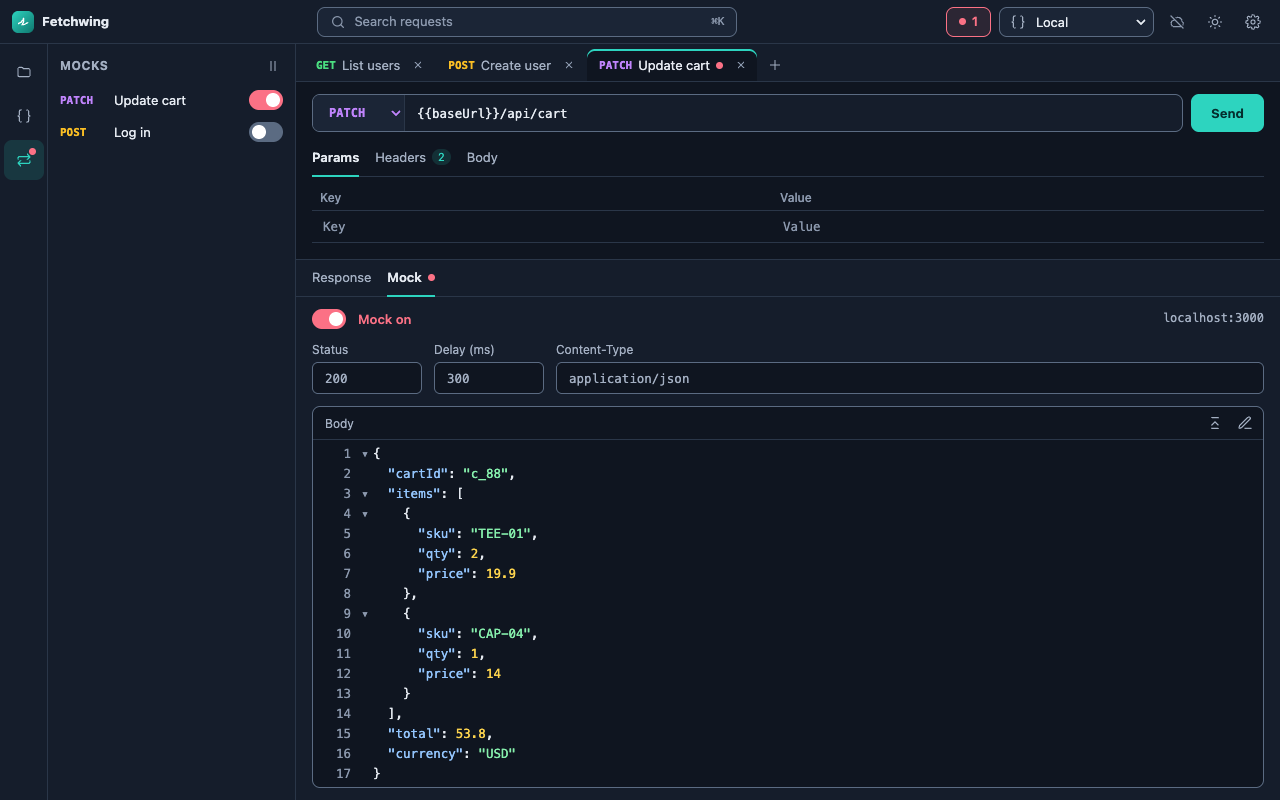
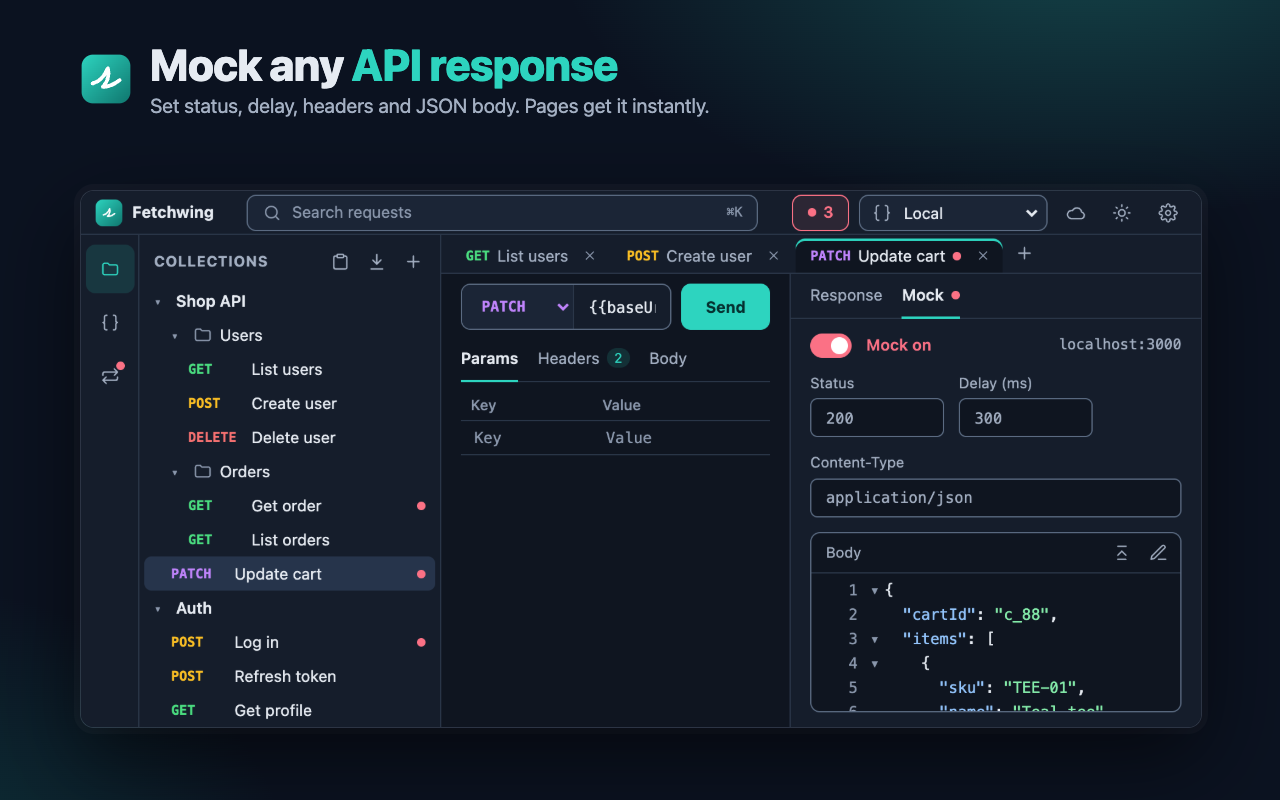
chore: sharpen the Store listing for search and use framed screenshots
Name and descriptions carry the terms people search for (REST API client,
HTTP, mock API). Five framed 1280x800 screenshots cover cURL paste, search,
mocks, mocks with DevTools closed and Drive sync; new promo tile.

diff --git a/docs/store/src/promo-small.html b/docs/store/src/promo-small.html
@@ -2,11 +2,27 @@
 <meta charset="utf-8">
 <style>
   html, body { margin: 0; width: 440px; height: 280px; overflow: hidden; }
-  body { background: radial-gradient(circle at 20% 20%, #15303a, #0f1520 70%); color: #e6ebf2; font-family: Inter, -apple-system, BlinkMacSystemFont, "Segoe UI", Roboto, sans-serif; display: flex; align-items: center; gap: 24px; padding: 0 40px; box-sizing: border-box; }
-  img { width: 112px; height: 112px; }
-  h1 { margin: 0; font-size: 40px; letter-spacing: -.5px; }
-  p { margin: 6px 0 0; color: #a3afc2; font-size: 17px; line-height: 1.35; }
-  b { color: #2dd4bf; font-weight: 600; }
+  body { position: relative; background: radial-gradient(320px 220px at 100% 0%, rgba(45,212,191,.32), transparent 65%), radial-gradient(260px 200px at 0% 100%, rgba(15,118,110,.4), transparent 65%), #0b1220; color: #e6ebf2; font-family: Inter, -apple-system, BlinkMacSystemFont, "Segoe UI", Roboto, sans-serif; }
+  .brand { position: absolute; left: 30px; top: 36px; display: flex; align-items: center; gap: 12px; }
+  .brand img { width: 46px; height: 46px; }
+  h1 { margin: 0; font-size: 40px; font-weight: 800; letter-spacing: -1px; }
+  p { position: absolute; left: 30px; top: 98px; margin: 0; font-size: 19px; font-weight: 600; line-height: 1.3; color: #cbd5e1; width: 210px; }
+  p b { color: #2dd4bf; }
+  .ui { position: absolute; right: 14px; bottom: -22px; width: 214px; background: #151d2b; border: 1px solid rgba(163,175,194,.25); border-radius: 12px; box-shadow: 0 18px 40px rgba(0,0,0,.6); padding: 12px 14px; font: 12px/1.6 "JetBrains Mono", ui-monospace, Menlo, monospace; transform: rotate(-4deg); }
+  .row { display: flex; align-items: center; gap: 8px; font: 600 13px Inter, sans-serif; margin-bottom: 8px; }
+  .sw { width: 30px; height: 17px; border-radius: 9px; background: #fb7185; position: relative; }
+  .sw::after { content: ""; position: absolute; right: 2px; top: 2px; width: 13px; height: 13px; border-radius: 50%; background: #fff; }
+  .m { color: #c084fc; font: 700 11px ui-monospace, Menlo, monospace; }
+  .on { color: #fb7185; }
+  .k { color: #93c5fd; } .s { color: #86efac; } .n { color: #fcd34d; }
 </style>
-<img src="../../../assets/icons/icon.svg" alt="">
-<div><h1>Fetchwing</h1><p>Send requests and <b>mock responses</b> right inside DevTools.</p></div>
+<div class="brand"><img src="../../../assets/icons/icon.svg" alt=""><h1>Fetchwing</h1></div>
+<p><b>API client</b> &amp; <b>mocks</b> inside DevTools</p>
+<div class="ui">
+  <div class="row"><span class="m">PATCH</span><span>/api/cart</span><span class="sw" style="margin-left:auto"></span></div>
+  <div class="row on" style="font-size:12px;margin-bottom:4px">Mock on · 200 · 300 ms</div>
+  <div>{</div>
+  <div>&nbsp;&nbsp;<span class="k">"total"</span>: <span class="n">53.8</span>,</div>
+  <div>&nbsp;&nbsp;<span class="k">"currency"</span>: <span class="s">"USD"</span></div>
+  <div>}</div>
+</div>

diff --git a/docs/index.html b/docs/index.html
@@ -4,7 +4,7 @@
 <meta charset="utf-8">
 <meta name="viewport" content="width=device-width, initial-scale=1">
 <title>Fetchwing — API client and mocks in DevTools</title>
-<meta name="description" content="Paste cURL, send requests, organise collections and mock responses for web pages, right inside Chrome DevTools.">
+<meta name="description" content="Paste cURL, send requests, organize collections and mock responses for web pages, right inside Chrome DevTools.">
 <link rel="icon" href="icon-128.png">
 <style>
   body { margin: 0; background: #0f1520; color: #e6ebf2; font: 17px/1.6 -apple-system, BlinkMacSystemFont, "Segoe UI", Roboto, sans-serif; }

diff --git a/docs/PUBLISHING.md b/docs/PUBLISHING.md
@@ -40,7 +40,7 @@ Reload the extension. Open DevTools → **Fetchwing** → cloud button → **Syn
 4. Listing:
    - Description: see "Store listing text" below.
    - Icon: `assets/icons/icon-128.png`.
-   - Screenshots, uploaded in this order: `docs/store/screenshot-1.png` … `screenshot-4.png` (1280×800).
+   - Screenshots, uploaded in this order: `docs/store/screenshot-1.png` … `screenshot-5.png` (1280×800).
    - Small promo tile: `docs/store/promo-small.png` (440×280).
    - Category: Developer Tools. Language: English.
    - Privacy practices tab: paste the single purpose, permission justifications and data disclosure from `docs/COMPLIANCE.md`.
@@ -53,17 +53,17 @@ Repo **Settings → Pages → Deploy from a branch → `main` / `/docs`**. The s
 
 ## Store listing text
 
-Name (`manifest.json` `name`): **Fetchwing**
+Name (`manifest.json` `name`, max 75 characters): **Fetchwing – API Client & Mock Server for DevTools** (49). The brand comes first, then the words people search for. `short_name` stays "Fetchwing", and the DevTools tab is still called Fetchwing.
 
-Short description (`manifest.json` `description`, max 132 characters):
+Short description (`manifest.json` `description`, max 132 characters, 121 used):
 
-> API client in DevTools: paste cURL, send requests, organise collections, and mock responses for web pages.
+> REST API client for DevTools: paste cURL, send HTTP requests, organize collections, and mock API responses on live pages.
 
-Detailed description:
+Detailed description (keep "mock" at 6 mentions or fewer; the spam policy flags repeated keywords):
 
-> Fetchwing is a lightweight API client that lives in Chrome DevTools. Grab a request from the Network tab, send it again, tweak it, and make your web page get the response you want while the real API is unfinished or misbehaving.
+> Fetchwing is a lightweight REST API client that lives in Chrome DevTools, with built-in API mocking. Copy a request as cURL from the Network tab, paste it, send it, tweak it, and make your page get the JSON response you want while the real API is unfinished or misbehaving.
 >
-> SEND REQUESTS
+> SEND HTTP REQUESTS
 > • Network tab → right-click → Copy as cURL, then one click on Paste cURL
 > • Import a file holding many cURL commands at once
 > • Edit method, URL, query parameters, headers and body; cookies from cURL are sent too
@@ -71,19 +71,19 @@ Detailed description:
 > • Collections, folders, open tabs and quick search (Ctrl/⌘+K)
 > • Environments with {{variables}}; secret values stay on your computer
 >
-> MOCK RESPONSES
-> • Turn on a mock and pages calling the same method and URL get your status, headers, body and delay
+> MOCK API RESPONSES
+> • Turn one on and pages calling the same method and URL get your status, headers, body and delay
 > • Matches the full URL including the query, in any order
 > • Works for fetch and XMLHttpRequest, and keeps working with DevTools closed
 > • Start from a real response with one click, then edit it
-> • The toolbar badge shows how many mocks are on; pause them all in one click
+> • The toolbar badge counts active ones; pause them all in one click
 >
 > SYNC (OPTIONAL)
 > • Sign in to keep your workspace in one file in your own Google Drive and use it on other computers
 > • Only asks for your email and access to the file it creates (drive.file)
 >
 > PRIVATE BY DESIGN
-> • Asks for access to a site only when you first send to it or mock it
+> • Asks for access to a site only when you first send to it or use it for a mock
 > • No servers, no analytics, no ads; nothing is sent to the developer
 > • Free and open source (MIT): https://github.com/HDuy-Dev/fetchwing
 >
@@ -92,11 +92,12 @@ Detailed description:
 ## Icons and store images
 
 - `assets/icons/icon.svg` is the source. `npm run images` renders `assets/icons/icon-{16,32,48,128}.png` and `docs/store/promo-small.png` (from `docs/store/src/promo-small.html`) with Google Chrome. Override the path with `CHROME=...`.
-- Screenshots are taken from the real panel with sample data at 1280×800:
-  1. a request with a JSON response (dark);
-  2. the mock pane with a mock on (dark);
-  3. the Mocks section;
-  4. the light theme.
+- Screenshots show the real panel with sample data, captured at 2× and placed in a 1280×800 frame: a headline, a subline and the panel in a rounded, shadowed box. The headlines, in order:
+  1. "Paste cURL, hit Send", with a "Copied as cURL" card;
+  2. "Organize every request", with ⌘K search open;
+  3. "Mock any API response", in the side-by-side layout;
+  4. "Mocks keep working with DevTools closed", with the Mocks list, the Pause all menu, and a small browser card showing the badge;
+  5. "Synced to your own Google Drive", in the light theme with the sync menu open and a card for the "Fetchwing data" file (text only, no Google logo).
 
   They are saved to `docs/store/screenshot-<n>.png`.
 - After changing the icon, copy `assets/icons/icon-128.png` to `docs/icon-128.png` for the website.
